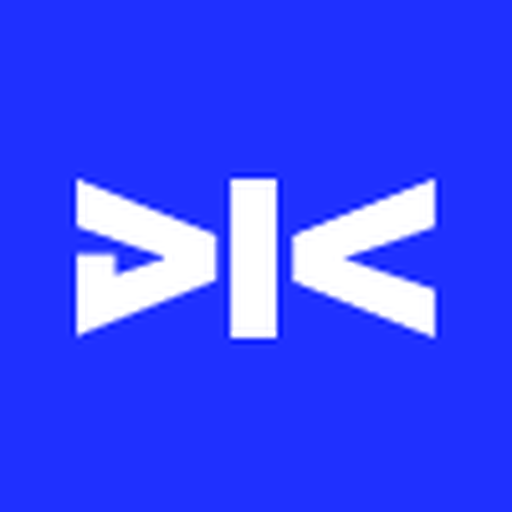
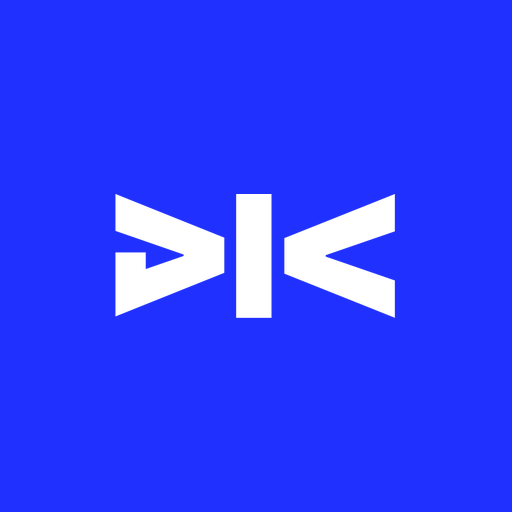
added order food items + loader

Changed region(s): [[0.125, 0.3438, 0.6875, 0.6875], [0.625, 0.3438, 0.875, 0.6562], [0.2812, 0.4062, 0.375, 0.4375]]

diff --git a/index.html b/index.html
@@ -16,6 +16,11 @@
 </head>
 <body>
 
+<div id="splash" aria-hidden="true">
+  <img src="icons/logo.svg" class="splash-logo splash-logo--white" alt="">
+  <img src="icons/logo.svg" class="splash-logo splash-logo--dark" alt="">
+</div>
+
 <header class="topbar">
   <div class="topbar__inner">
     <div class="mark" aria-label="Plate">
@@ -114,7 +119,7 @@
     <div class="section-head" style="margin-top:48px;">
       <h2>Search sources</h2>
     </div>
-    <p class="track__meta" style="margin:0 0 14px;">Home food (124 items) always works offline. Online search uses Open Food Facts (no key needed) and, if you add a free key below, USDA FoodData Central too, better for generic foods like plain fruit, vegetables, and staples.</p>
+    <p class="track__meta" style="margin:0 0 14px;">Home food (146 items) always works offline. Online search uses Open Food Facts (no key needed) and, if you add a free key below, USDA FoodData Central too, better for generic foods like plain fruit, vegetables, and staples.</p>
     <div class="form">
       <label class="field">
         <span>USDA FoodData Central API key (optional)</span>
@@ -140,7 +145,7 @@
     </div>
     <input type="search" class="search" id="food-search" placeholder="Search e.g. roti, paneer, pizza..." autocomplete="off">
     <div class="chiprow" id="chiprow"></div>
-    <p class="search__hint" id="search-hint">124 home foods loaded. Type 3+ letters to also search online.</p>
+    <p class="search__hint" id="search-hint">146 home foods loaded. Type 3+ letters to also search online.</p>
     <ul class="resultslist" id="resultslist"></ul>
     <button class="link-muted" id="btn-add-custom" style="margin-top:16px;">+ Add a food that's not listed</button>
   </div>

diff --git a/app.js b/app.js
@@ -1,6 +1,22 @@
 (function () {
   "use strict";
 
+  // ---------------- Splash screen ----------------
+  (function () {
+    var splash = document.getElementById("splash");
+    if (!splash) return;
+    var removed = false;
+    var remove = function () {
+      if (removed) return;
+      removed = true;
+      splash.remove();
+    };
+    splash.addEventListener("animationend", function (e) {
+      if (e.animationName === "splashSlide") remove();
+    });
+    setTimeout(remove, 2200); // safety net in case animationend doesn't fire
+  })();
+
   // ---------------- Constants ----------------
   var STORAGE_LOGS = "plate_logs_v1";
   var STORAGE_SETTINGS = "plate_settings_v1";
@@ -50,7 +66,7 @@
     all: "All", custom: "Your foods", staple: "Staples", dal_legume: "Dal & legumes", sabzi: "Sabzi",
     dairy_protein: "Dairy & protein", snack: "Snacks", street_food: "Street food",
     sweet: "Sweets", fruit: "Fruit", nuts_seeds: "Nuts & seeds", beverage: "Beverages",
-    condiment: "Condiments", dinner_rotation: "Dinner rotation"
+    condiment: "Condiments", dinner_rotation: "Dinner rotation", restaurant: "Restaurant"
   };
 
   function loadSettings() {

diff --git a/style.css b/style.css
@@ -318,3 +318,44 @@ main{max-width:var(--maxw); margin:0 auto; padding:0 20px 100px;}
   .bignum{font-size:60px;}
   .macro__num{font-size:26px;}
 }
+
+/* ---------- Splash screen ---------- */
+#splash{
+  position:fixed; inset:0; z-index:999;
+  display:flex; align-items:center; justify-content:center;
+  background:#000;
+  animation: splashBg 1.5s ease forwards, splashSlide 1.5s ease forwards;
+  will-change:transform;
+}
+.splash-logo{
+  position:absolute;
+  width:46px; height:auto;
+}
+.splash-logo--white{
+  opacity:1;
+  animation: splashFadeOut 1.5s ease forwards;
+}
+.splash-logo--dark{
+  opacity:0;
+  filter:invert(1);
+  animation: splashFadeIn 1.5s ease forwards;
+}
+@keyframes splashBg{
+  0%,42%{ background:#000; }
+  56%,100%{ background:#fff; }
+}
+@keyframes splashFadeOut{
+  0%,40%{ opacity:1; }
+  54%,100%{ opacity:0; }
+}
+@keyframes splashFadeIn{
+  0%,40%{ opacity:0; }
+  54%,100%{ opacity:1; }
+}
+@keyframes splashSlide{
+  0%,62%{ transform:translateY(0); }
+  100%{ transform:translateY(-100%); }
+}
+@media (prefers-reduced-motion:reduce){
+  #splash{ animation:none; display:none; }
+}

diff --git a/sw.js b/sw.js
@@ -1,4 +1,4 @@
-var CACHE_NAME = "plate-cache-v2";
+var CACHE_NAME = "plate-cache-v4";
 var SHELL = [
   "./",
   "./index.html",
